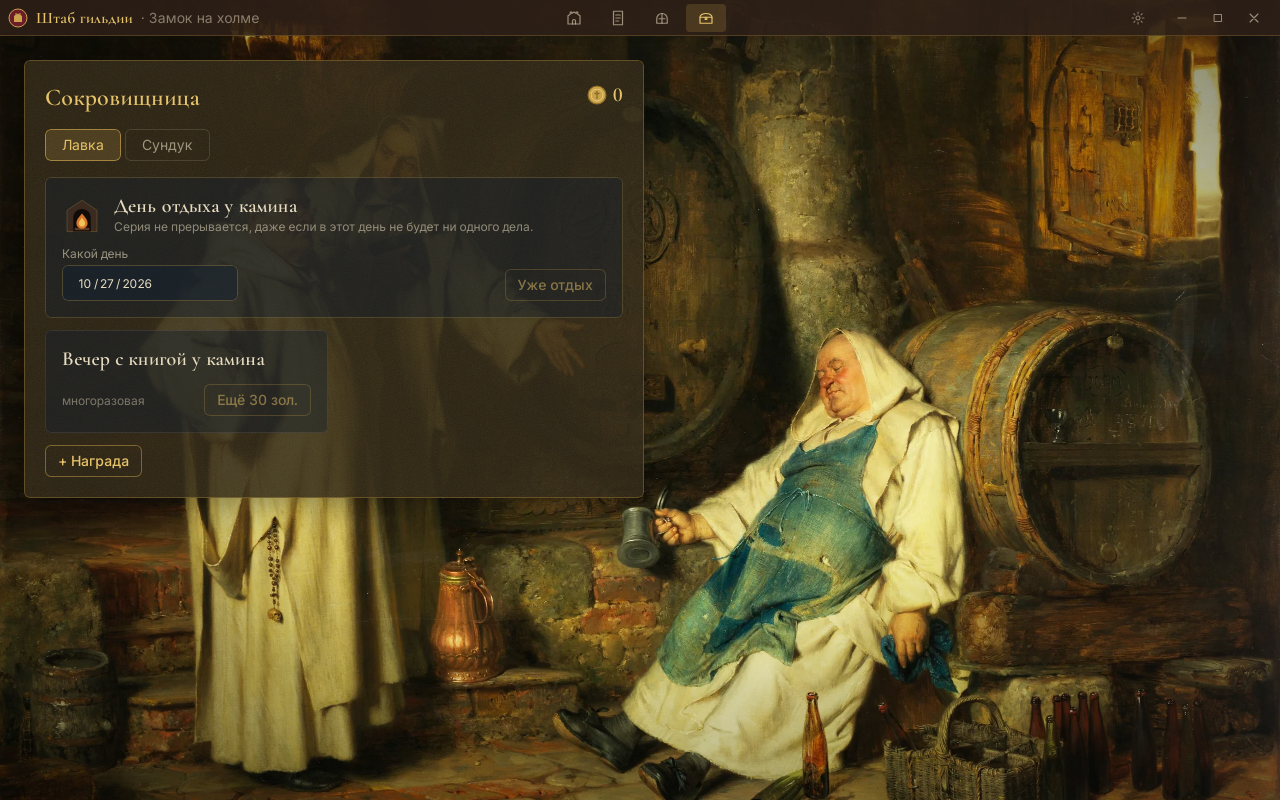
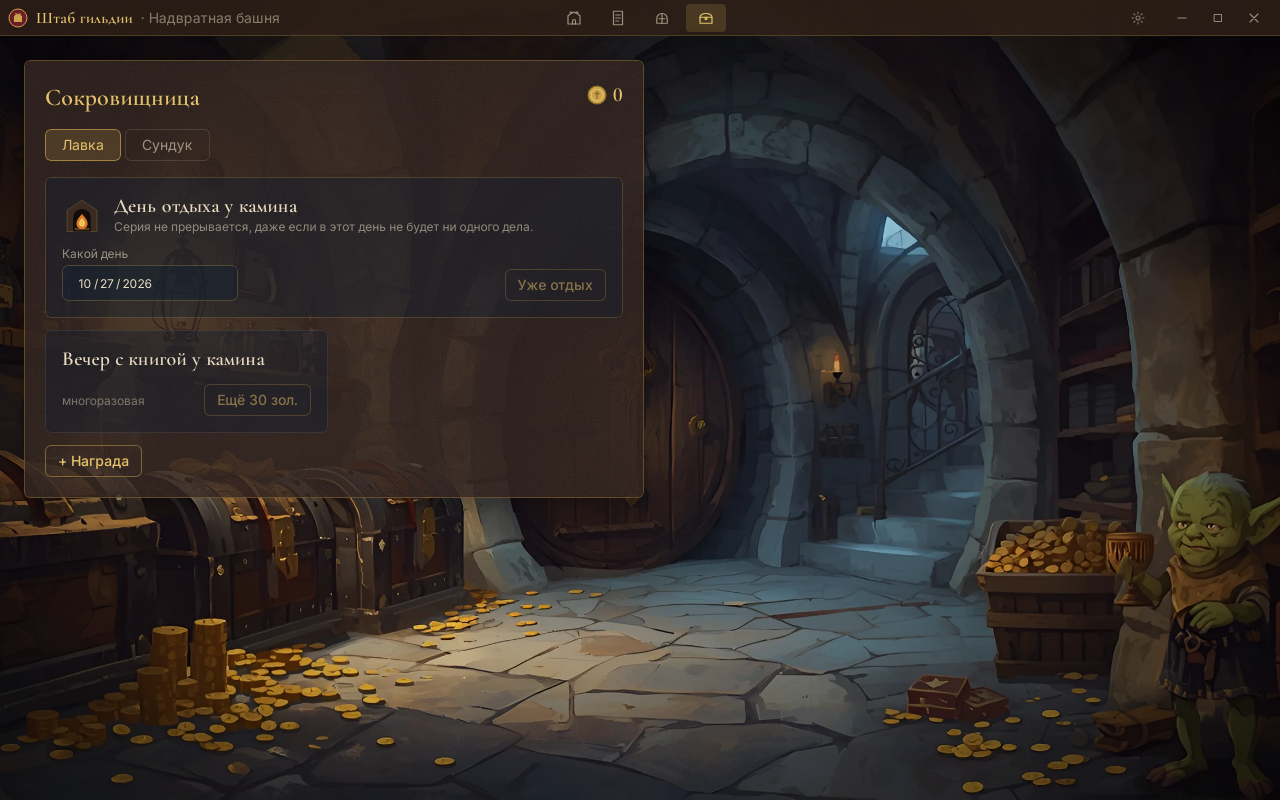
Собственный арт из #4 в V0.2: кредиты без повторов, свежие скриншоты
Claude-Session: https://claude.ai/code/session_014QFuyabCvuzb5RXUZ2ggsX

diff --git a/src/screens/Settings.tsx b/src/screens/Settings.tsx
@@ -161,6 +161,9 @@ function RestActions() {
 /** Настройки: ставки, граница суток, цена отдыха, анимации, привалы и авторы иллюстраций. */
 export function SettingsScreen() {
   const { settings, setSetting } = useGame();
+  const origins = [
+    ...new Set(Object.values(assets).map(({ credit }) => `${credit.author}, ${credit.year} · ${credit.license} · ${credit.source}`)),
+  ];
 
   return (
     <div className="h-full overflow-y-auto p-6 scrollbar-quiet">
@@ -228,15 +231,19 @@ export function SettingsScreen() {
           <RestActions />
         </Section>
 
-        <Section title="Иллюстрации" hint="Фоны взяты из живописи в общественном достоянии через Wikimedia Commons.">
+        <Section title="Иллюстрации" hint="Откуда взялись сцены, которые висят на стенах гильдии.">
           <ul className="flex flex-col gap-1 text-sm text-parchment/70">
             {Object.values(assets).map(({ name, credit }) => (
               <li key={name}>
-                <span className="text-parchment">{name}:</span> «{credit.title}», {credit.author}, {credit.year}
-                <span className="text-parchment/45"> · {credit.license}</span>
+                <span className="text-parchment">{name}:</span> «{credit.title}»
               </li>
             ))}
           </ul>
+          {origins.map((origin) => (
+            <p key={origin} className="text-xs text-parchment/45">
+              {origin}
+            </p>
+          ))}
         </Section>
       </Panel>
     </div>
